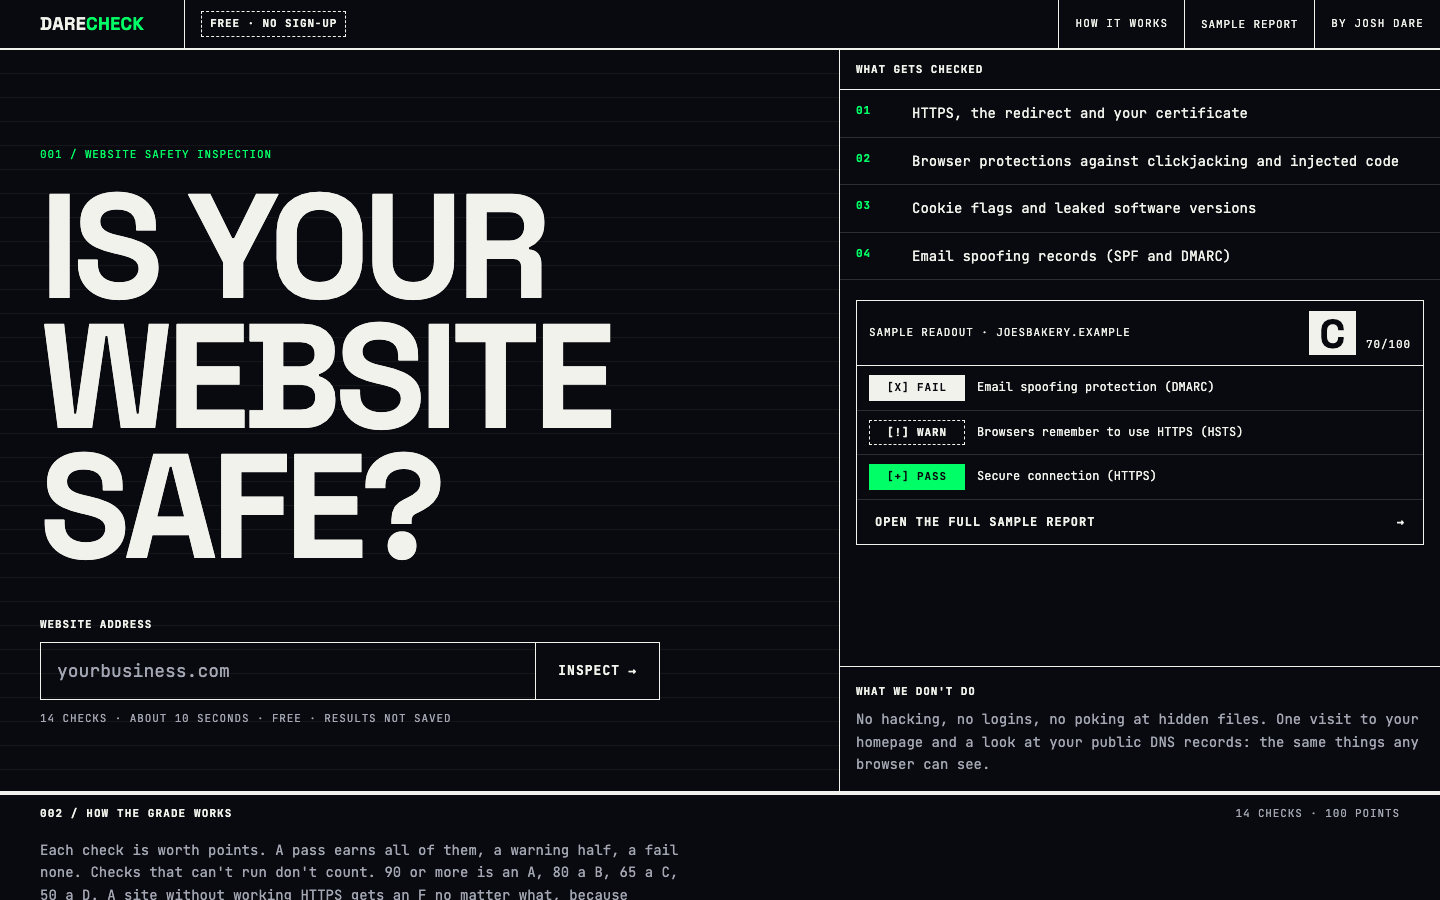
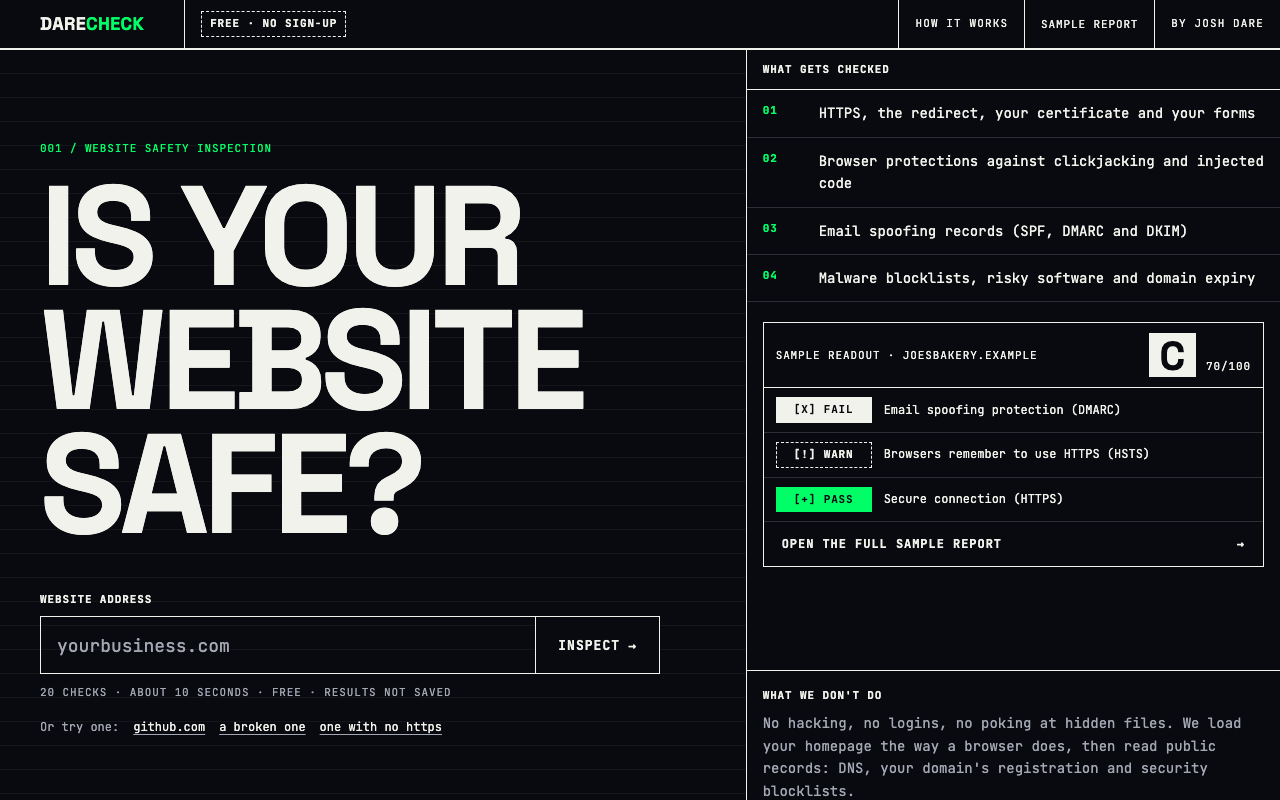
docs: DARE CHECK README catches up with the rebuilt engine
- The engine now runs 22 checks (20 scored, DKIM and third-party scripts
  reported only) in four groups; the README still described 14 in three.
  Points per group now match lib/checks.js (42 / 24 / 16 / 18).
- Document the CLI, the GitHub Action and the MCP server.
- Measured on 2026-11-17: 115 of 115 tests (was "39") and 70 of 70
  browser checks (was "23").
- Fresh screenshots of the live site; add sources.js to the diagram.
- Add Status, Roadmap and Credits; byline now reads Akinwale Dare.

Changed region(s): [[0.0, 0.0, 1.0, 0.6875], [0.0312, 0.1562, 0.5, 0.8125], [0.0, 0.75, 1.0, 1.0]]

diff --git a/README.md b/README.md
@@ -1,8 +1,11 @@
 # DARE CHECK
 
-**A free 10-second safety grade for small-business websites.** Type an address and get a letter grade, fourteen checks explained in plain English, and copy-paste fixes for the host the site actually runs on.
+**A free 10-second safety grade for small-business websites.** Type an address and get a letter grade, twenty scored checks explained in plain English, and copy-paste fixes for the host the site actually runs on. Also a CLI, a GitHub Action and an MCP server.
+
+**Live:** [dare-check.vercel.app](https://dare-check.vercel.app)
 
 ![The DARE CHECK home page](docs/hero.png)
+<sub>Screenshots captured from the live site with Playwright on 2026-11-17.</sub>
 
 Most small-business owners have never been told whether their site is missing HTTPS, or whether anyone can send email that looks like it came from their domain. DARE CHECK looks at the same things a security pro checks first, and only the things any browser can see.
 
@@ -10,11 +13,14 @@ Most small-business owners have never been told whether their site is missing HT
 
 | Group | Checks | Points |
 |---|---|---|
-| Connection | HTTPS, the http→https redirect, certificate expiry, HSTS, insecure files on the page | 50 |
-| Browser protections | clickjacking (frame-ancestors / X-Frame-Options), nosniff, Content-Security-Policy, Referrer-Policy, Permissions-Policy, cookie flags, leaked software versions | 30 |
-| Email | SPF and DMARC records, the two that stop people spoofing your domain | 20 |
+| Connection | HTTPS, the http→https redirect, the certificate, HSTS, insecure files on the page, forms that post over http, `www` and bare domain agreeing | 42 |
+| Browser protections | clickjacking (frame-ancestors / X-Frame-Options), nosniff, Content-Security-Policy, Referrer-Policy, Permissions-Policy, cookie flags, leaked software versions | 24 |
+| Email | SPF and DMARC, the two records that stop people spoofing your domain (DKIM is reported, not scored) | 16 |
+| Reputation and upkeep | not on a malware or scam blocklist, no known-risky software versions, domain not about to expire, domain transfer lock (other companies' scripts are reported, not scored) | 18 |
 
-A pass earns a check's full points, a warning half, a fail none. Checks that can't run leave the total instead of costing points. 90+ is an A, 80 a B, 65 a C, 50 a D. A site without working HTTPS is an F no matter what else it gets right.
+That is 20 scored checks and 2 reported ones, 22 in all (`lib/checks.js`).
+
+A pass earns a check's full points, a warning half, a fail none. Checks that can't run leave the total instead of costing points. 90+ is an A, 80 a B, 65 a C, 50 a D. A site without working HTTPS, or one that security filters list as dangerous, is an F no matter what else it gets right. If the homepage answers with an error status, the report says the grade may describe the error page.
 
 The fixes are written for the host it detects: `vercel.json`, Netlify `_headers`, `.htaccess`, nginx, IIS `web.config`, Cloudflare Transform Rules, or plain advice for builders like Wix and Squarespace that don't let owners set headers. The email fixes follow the domain's mail provider (Google Workspace, Microsoft 365, or no mail at all).
 
@@ -25,33 +31,66 @@ The fixes are written for the host it detects: `vercel.json`, Netlify `_headers`
 ```mermaid
 flowchart LR
   A[Address typed in] --> B[guard.js<br/>public names only]
-  B --> C[inspect.js<br/>GET / over https + http<br/>certificate, SPF, DMARC, MX]
-  C --> D[checks.js<br/>14 pure checks<br/>grade + fixes]
+  B --> C[inspect.js<br/>GET / over https + http<br/>certificate, SPF, DMARC, DKIM, MX]
+  B --> S[sources.js<br/>RDAP, Cloudflare + Quad9 security DNS,<br/>WordPress release list]
+  C --> D[checks.js<br/>22 pure checks, 20 scored<br/>grade + fixes]
+  S --> D
   D --> E[api/scan.js<br/>JSON report]
   E --> F[Page renders it<br/>textContent only]
 ```
 
 - **`lib/guard.js`**: the SSRF guard. A stranger types the address, so every request must stay on the public internet. It rejects IPs, ports, credentials and private-network names when the address is typed, then checks *every resolved address at connect time* with a custom `lookup`. That covers redirects and DNS rebinding, plus IPv4 hidden inside IPv6 (mapped, NAT64, 6to4). Redirects to IP literals, which skip DNS entirely, are checked separately.
 - **`lib/inspect.js`**: read-only collection. It sends GET `/` only, follows redirects by hand (five at most), caps the body at 256 KB and enforces one 15-second deadline. A bad certificate still gets read, so the report can say *why* it's bad.
+- **`lib/sources.js`**: public lookups that never touch the scanned site: the domain's registry record over RDAP (expiry and transfer lock), Cloudflare's and Quad9's security DNS filters (the blocklist check), and WordPress's list of insecure releases. None needs an API key, and each one fails soft: if a service is down, its check is skipped rather than guessed.
 - **`lib/checks.js`**: pure functions from observations to report, with no network involved, so they're easy to test. Nothing from the scanned page's HTML leaves the server.
 - **`api/scan.js`**: a POST-only Vercel function with a per-visitor rate limit (8 a minute), a 2-minute cache and plain-English errors. Results are never written anywhere.
 - **`public/`**: one static page with no framework and no dependencies. Every value from a scanned site is untrusted, so the DOM is built with `textContent`. The page runs under a strict CSP: `script-src 'self'`, no inline code, `frame-ancestors 'none'`.
 
+## Use it from the command line, CI or an AI assistant
+
+**CLI** (Node 20+, no install beyond cloning):
+
+```bash
+node bin/dare-check.js example.com                 # print a report
+node bin/dare-check.js example.com --json          # the report as JSON
+node bin/dare-check.js example.com --fail-under B  # exit 1 if the grade is below B
+node bin/dare-check.js --batch sites.txt --csv out.csv --md out.md
+```
+
+**GitHub Action** (`action.yml`): grade a site in CI and fail the step below a grade. Outputs `grade` and `score`.
+
+```yaml
+- uses: Waleee7/dare-check@main
+  with:
+    url: example.com
+    fail-under: C
+```
+
+**MCP server** (`bin/dare-check-mcp.js`, stdio): one tool, `check_website`, that returns the same report to Claude or any MCP client.
+
+```bash
+claude mcp add dare-check -- node /path/to/dare-check/bin/dare-check-mcp.js
+```
+
+All three are read-only: they load the homepage the way a browser does and read public records.
+
 ## Run it
 
 ```bash
-npm test                    # 39 unit and integration tests, no network needed
+npm test                    # 115 unit and integration tests, no network needed
 PORT=5190 node server.js    # http://127.0.0.1:5190
-node tests/ui.check.cjs     # 23 browser checks against the running server (needs Playwright)
+node tests/ui.check.cjs     # 70 browser checks against the running server (needs Playwright)
 ```
 
 Requires Node 20+. No dependencies.
 
 ## Verified
 
-- **39 tests pass:** grading rules, SPF/DMARC parsing, platform detection, the SSRF guard (40 address cases, including cloud-metadata and IPv6-embedded forms), the redirect walker against real local servers (including a server that drips one byte at a time), a real self-signed certificate, the rate limiter, and a check that the page's grade table matches the engine.
-- **23 browser checks pass:** the sample report, copy buttons, error states, shared links, print view, reduced motion, phone layout with no sideways scroll, zero console or CSP errors, and a hostile report whose fields carry `<script>` and `onerror` payloads, which render as harmless text.
-- **Lighthouse (mobile and desktop):** Accessibility 100, Best Practices 100. SEO is held down only by the pre-launch `noindex`.
+Last run on 2026-11-17:
+
+- **115 of 115 tests pass** (`npm test`, 8 files): grading rules, SPF/DMARC/DKIM parsing, platform detection, the SSRF guard (including cloud-metadata and IPv6-embedded addresses), the redirect walker against real local servers (including a server that drips one byte at a time), a real self-signed certificate, the RDAP, DNS-filter and WordPress lookups, the CLI, the MCP server, the rate limiter, and a check that the page's grade table matches the engine. CI runs the same suite on Node 20 and 22.
+- **70 of 70 browser checks pass** (`tests/ui.check.cjs`, Playwright, against a local server): the sample report, copy buttons, error states, shared links, print view, reduced motion, phone layout with 44 px targets and no sideways scroll, zero console or CSP errors, and a hostile report whose fields carry `<script>` and `onerror` payloads, which render as harmless text.
+- **Lighthouse (mobile and desktop), at the first release:** Accessibility 100, Best Practices 100. SEO is held down only by the pre-launch `noindex`. Not re-run since the engine rebuild.
 
 ![The report on a phone](docs/phone.png)
 
@@ -59,4 +98,16 @@ Requires Node 20+. No dependencies.
 
 DARE CHECK covers the basics that stop the most common attacks. It is not a penetration test and doesn't look past the homepage. The rate limit and cache live in each function instance's memory, which is fine for a free tool but not for a high-traffic one.
 
-Built by Joshua Dare.
+## Status
+
+Live at [dare-check.vercel.app](https://dare-check.vercel.app), serving this repo's `main` (checked 2026-11-17). Search indexing is off (`noindex`) until launch.
+
+## Roadmap
+
+- Launch: lift the `noindex`.
+- Move the rate limit and cache out of per-instance memory if traffic grows.
+- Decide whether a homepage that answers with a 5xx error should cap the grade (today it adds a caveat).
+
+## Credits
+
+Built by [Akinwale Dare](https://github.com/Waleee7). Public data comes from the domain registries' RDAP service, Cloudflare's and Quad9's security DNS filters, and the WordPress.org release API.
